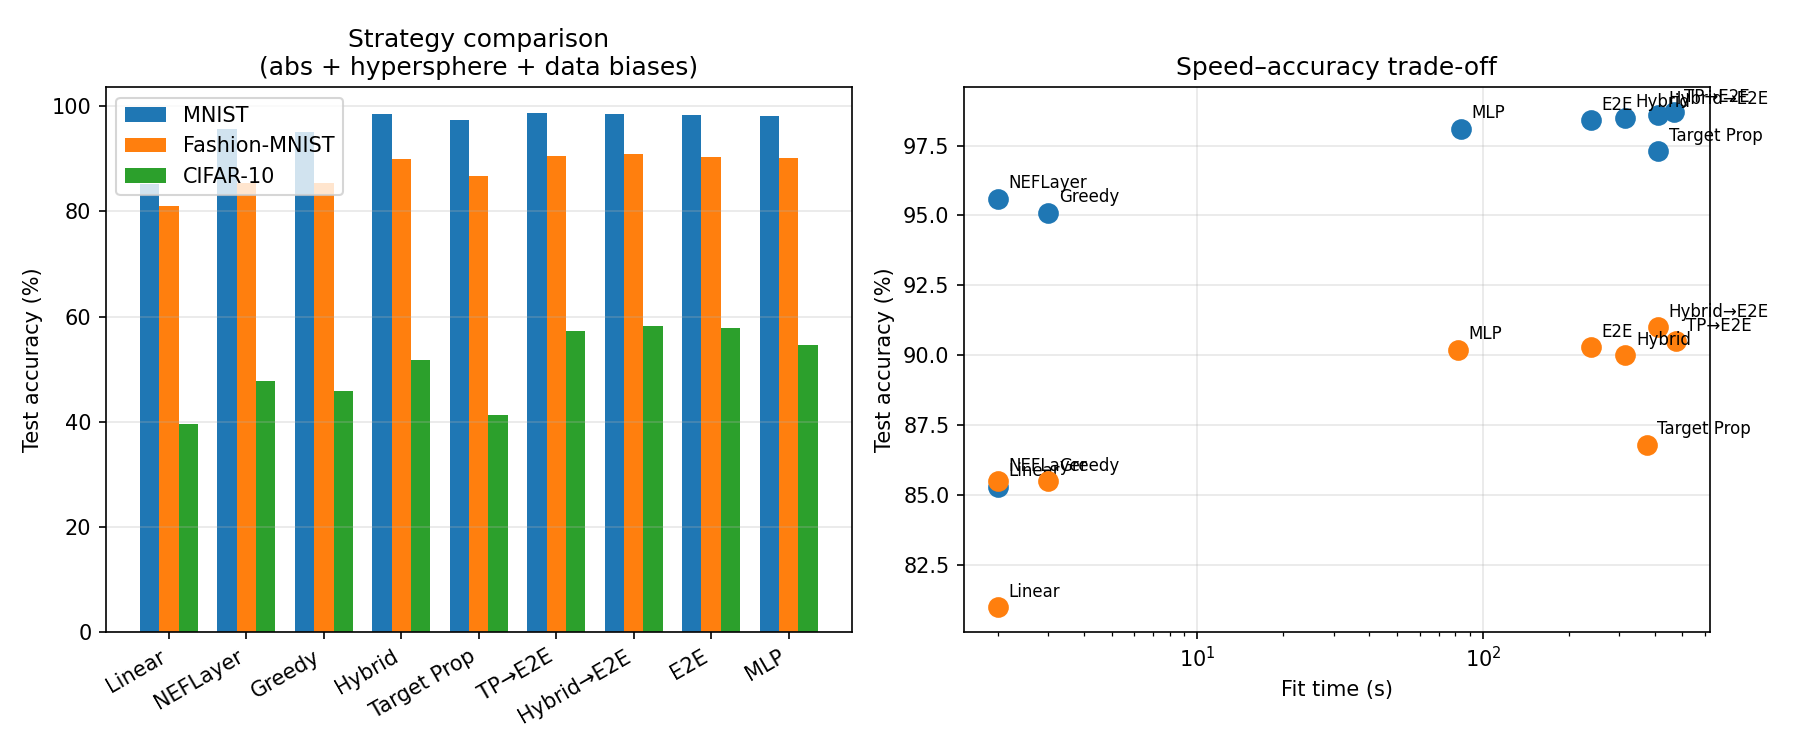
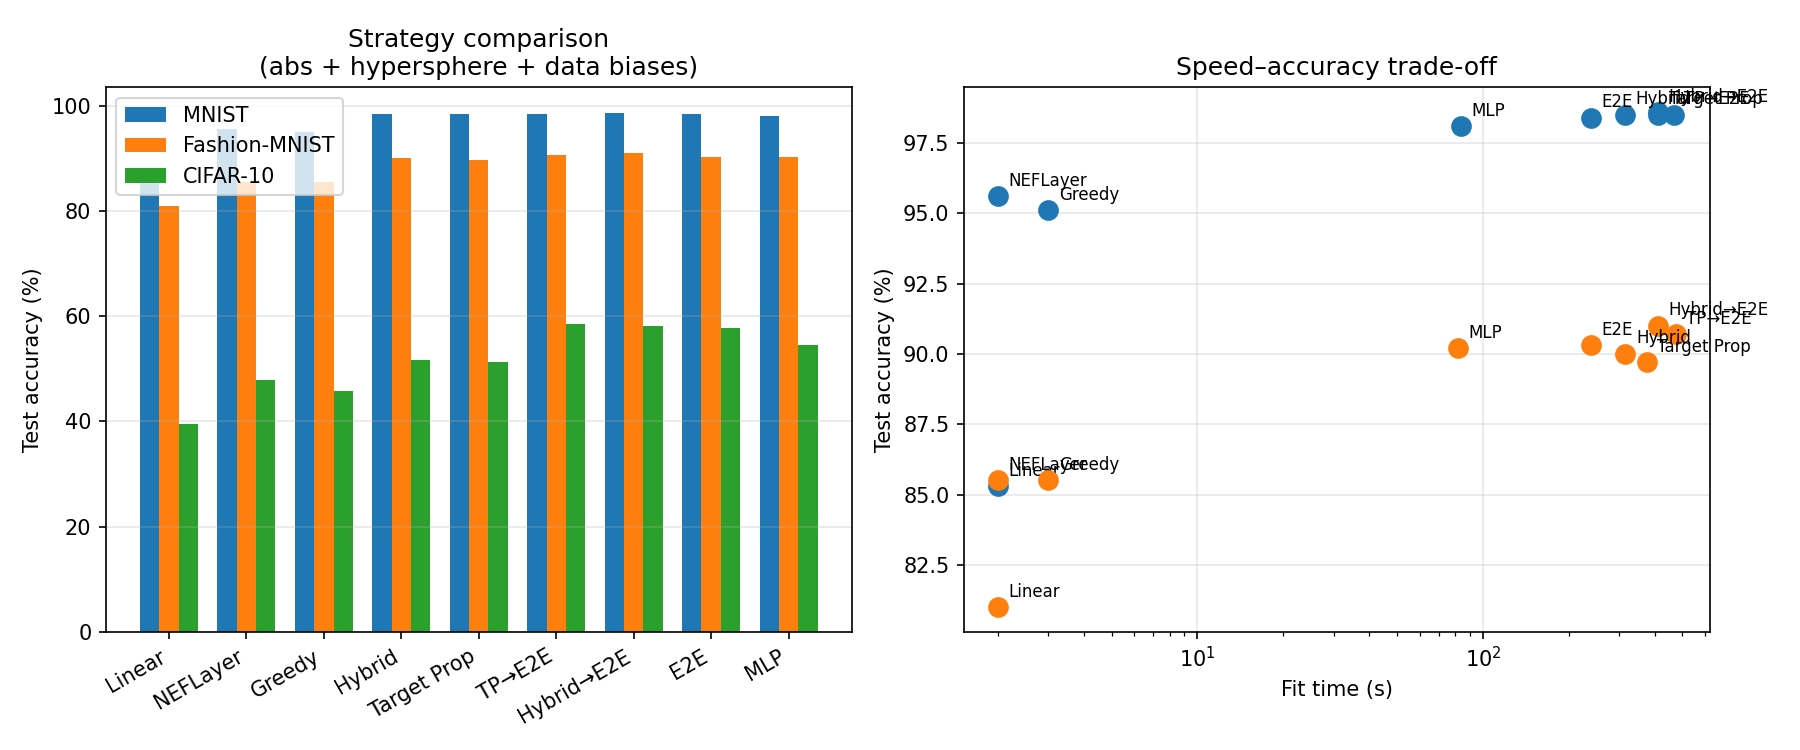
Refresh TP benchmark docs
Update the README benchmark table and prose with the corrected feed-forward TP reruns, remove internal-process wording, and regenerate the strategy comparison plot.

diff --git a/benchmarks/plot.py b/benchmarks/plot.py
@@ -33,8 +33,6 @@ BIAS_EFFECT = {
 }
 
 # Multi-layer: strategy comparison
-# Target Prop / TP→E2E values come from the fresh post-audit reruns; the other
-# rows remain from the checked-in benchmark table.
 STRATEGIES = [
     "Linear",
     "NEFLayer",
@@ -47,9 +45,9 @@ STRATEGIES = [
     "MLP",
 ]
 MULTI = {
-    "MNIST": [85.3, 95.6, 95.1, 98.5, 97.3, 98.7, 98.6, 98.4, 98.1],
-    "Fashion-MNIST": [81.0, 85.5, 85.5, 90.0, 86.8, 90.5, 91.0, 90.3, 90.2],
-    "CIFAR-10": [39.6, 47.8, 45.8, 51.7, 41.2, 57.2, 58.1, 57.8, 54.6],
+    "MNIST": [85.3, 95.6, 95.1, 98.5, 98.5, 98.5, 98.6, 98.4, 98.1],
+    "Fashion-MNIST": [81.0, 85.5, 85.5, 90.0, 89.7, 90.7, 91.0, 90.3, 90.2],
+    "CIFAR-10": [39.6, 47.8, 45.8, 51.7, 51.3, 58.5, 58.1, 57.8, 54.6],
 }
 MULTI_TIME = {
     "MNIST": [2, 2, 3, 315, 412, 466, 412, 240, 84],

diff --git a/README.md b/README.md
@@ -193,9 +193,9 @@ the model generalises well, with test MSE within 1% of training MSE.
 | NEFLayer          | 95.6%    | 85.5%    | 47.8%    |     2s       |
 | NEFNet-greedy     | 95.1%    | 85.5%    | 45.8%    |     3s       |
 | NEFNet-hybrid     | 98.5%    | 90.0%    | 51.7%    |   315s       |
-| NEFNet-target-prop| 97.3%    | 86.8%    | 41.2%    |   412s       |
-| NEFNet-TP→E2E     |**98.7%** | 90.5%    | 57.2%    |   466s       |
-| NEFNet-hybrid→E2E | 98.6%    |**91.0%** |**58.1%** |   412s       |
+| NEFNet-target-prop| 98.5%    | 89.7%    | 51.3%    |   412s       |
+| NEFNet-TP→E2E     | 98.5%    | 90.7%    |**58.5%** |   466s       |
+| NEFNet-hybrid→E2E |**98.6%** |**91.0%** | 58.1%    |   412s       |
 | NEFNet-e2e        | 98.4%    | 90.3%    | 57.8%    |   240s       |
 | MLP (2×1000)      | 98.1%    | 90.2%    | 54.6%    |    84s       |
 
@@ -204,11 +204,6 @@ forwarded through each layer, and the resulting activations are used as
 centers for the next layer's bias computation.  This is especially important
 for greedy, which has no gradient learning — propagated centers lifted
 greedy from 94.0% → 95.1% on MNIST and 84.0% → 85.5% on Fashion-MNIST.
-
-The `NEFNet-target-prop` and `NEFNet-TP→E2E` rows above were rerun on the
-current post-audit code.  The remaining rows are retained from the earlier
-benchmark sweep, so this table should be read as a targeted refresh of the
-affected strategies rather than a full benchmark rerun of every model.
 
 The default hybrid configuration uses 50 iterations with α = 10⁻³ for the
 decoder solver.  These were found via a systematic sweep over iterations
@@ -227,29 +222,27 @@ diminish past 50 iterations (75 and 100 barely improve).
 encoder state, producing noisy gradients that destabilise encoder learning.
 At α = 10⁻⁵ results collapse entirely (96.4% MNIST, 32.7% CIFAR-10).
 
-**Warm-started E2E remains the most reliable path.**  In the refreshed
-affected-strategy rows, `fit_target_prop_e2e` reaches 98.7% / 90.5% / 57.2%,
-which is the best MNIST result in the table and competitive with the existing
-`fit_hybrid_e2e` numbers.  The earlier `fit_hybrid_e2e` sweep still leads on
-Fashion-MNIST and CIFAR-10 (91.0% / 58.1%), so hybrid→E2E remains the safest
-general-purpose choice until all rows are rerun under the same current code.
+**Warm-started E2E remains the most reliable path.**  `fit_target_prop_e2e`
+reaches 98.5% / 90.7% / 58.5%, keeping it competitive with
+`fit_hybrid_e2e` while edging ahead on CIFAR-10.  The hybrid→E2E warm start
+still has the best MNIST and Fashion-MNIST numbers in this table, so it
+remains the safest general-purpose choice overall.
 
-**Plain target propagation is now clearly weaker than its warm-started form.**
+**Plain target propagation is competitive again with a smaller default step.**
 `fit_target_prop` still avoids cross-layer backprop entirely: it solves
 representational decoders analytically, propagates DTP targets backward, and
-updates each layer with only single-layer gradients.  But the fresh rerun on
-current code reached 97.3% / 86.8% / 41.2%, well below the earlier hybrid row.
-The new target-feasibility and robust-inverse changes made TP easier to
-inspect and warm-start from, but they did not preserve the old headline claim
-that plain TP matches hybrid everywhere.  In practice, `fit_target_prop_e2e`
-is the more compelling path today: TP shapes the encoder geometry locally,
-then a short E2E phase repairs the remaining global mismatch.
+updates each layer with only single-layer gradients.  Enforcing nonnegative
+activity targets made the old `eta=0.1` step too aggressive because too much
+of each target update was being clipped away before the local losses saw it.
+Reducing the default to `eta=0.01` keeps the feasibility fix while preserving
+the TP signal, bringing plain TP back to 98.5% / 89.7% / 51.3% and restoring
+its earlier competitiveness with hybrid on the easier datasets.
 
 **Target propagation eta sweep** (50 iterations, lr=10⁻³, normalised step):
 
 > Measured with an earlier configuration (gain=1.0, data-driven biases).
-> Qualitative conclusions (CIFAR-10 prefers small eta, MNIST is insensitive)
-> are expected to hold with current defaults.
+> With feasibility projection enabled, the current default uses `eta=0.01`
+> to keep target clipping low while retaining most of the TP signal.
 
 | eta    | MNIST | Fashion | CIFAR-10 |
 |--------|-------|---------|----------|
@@ -463,8 +456,7 @@ Row-by-row sMNIST: each image is a sequence of 28 rows (T=28, d=28),
 classified at the final timestep.  All NEF models use 2000 neurons,
 relu activation, gain U(0.5, 2.0), and data-driven biases.
 
-Historical full-dataset baseline (kept for context from the earlier benchmark
-pass):
+Historical full-dataset baseline:
 
 | Model                           | Test accuracy | Time    |
 |---------------------------------|---------------|---------|
@@ -474,7 +466,7 @@ pass):
 | RecNEF-E2E (50 epochs)          | **98.5%**     |   802s  |
 | LSTM-128 (20 epochs)            | **98.3%**     |    98s  |
 
-Post-audit spot-check rerun of the affected recurrent strategies on a smaller
+Later spot-check rerun of the changed recurrent strategies on a smaller
 row-wise sMNIST slice (`5k` train / `1k` test, chosen to keep recurrent TP
 practical in-session):
 
@@ -486,8 +478,9 @@ practical in-session):
 | RecNEF-E2E (50 epochs)                 |  68.2%        |    66s  |
 
 These spot-check numbers are **not directly comparable** to the historical
-full-dataset table above; they are a smaller rerun used to assess the new
-recurrent code paths without paying the full cost of another 60k/10k TP run.
+full-dataset table above; they come from a smaller rerun used to assess the
+changed recurrent code paths without paying the full cost of another 60k/10k
+TP run.
 
 **The recurrent story is better than before, but still mixed.**  On the 5k/1k
 spot-check, `fit_hybrid_e2e` is the clearest beneficiary of the recurrent
